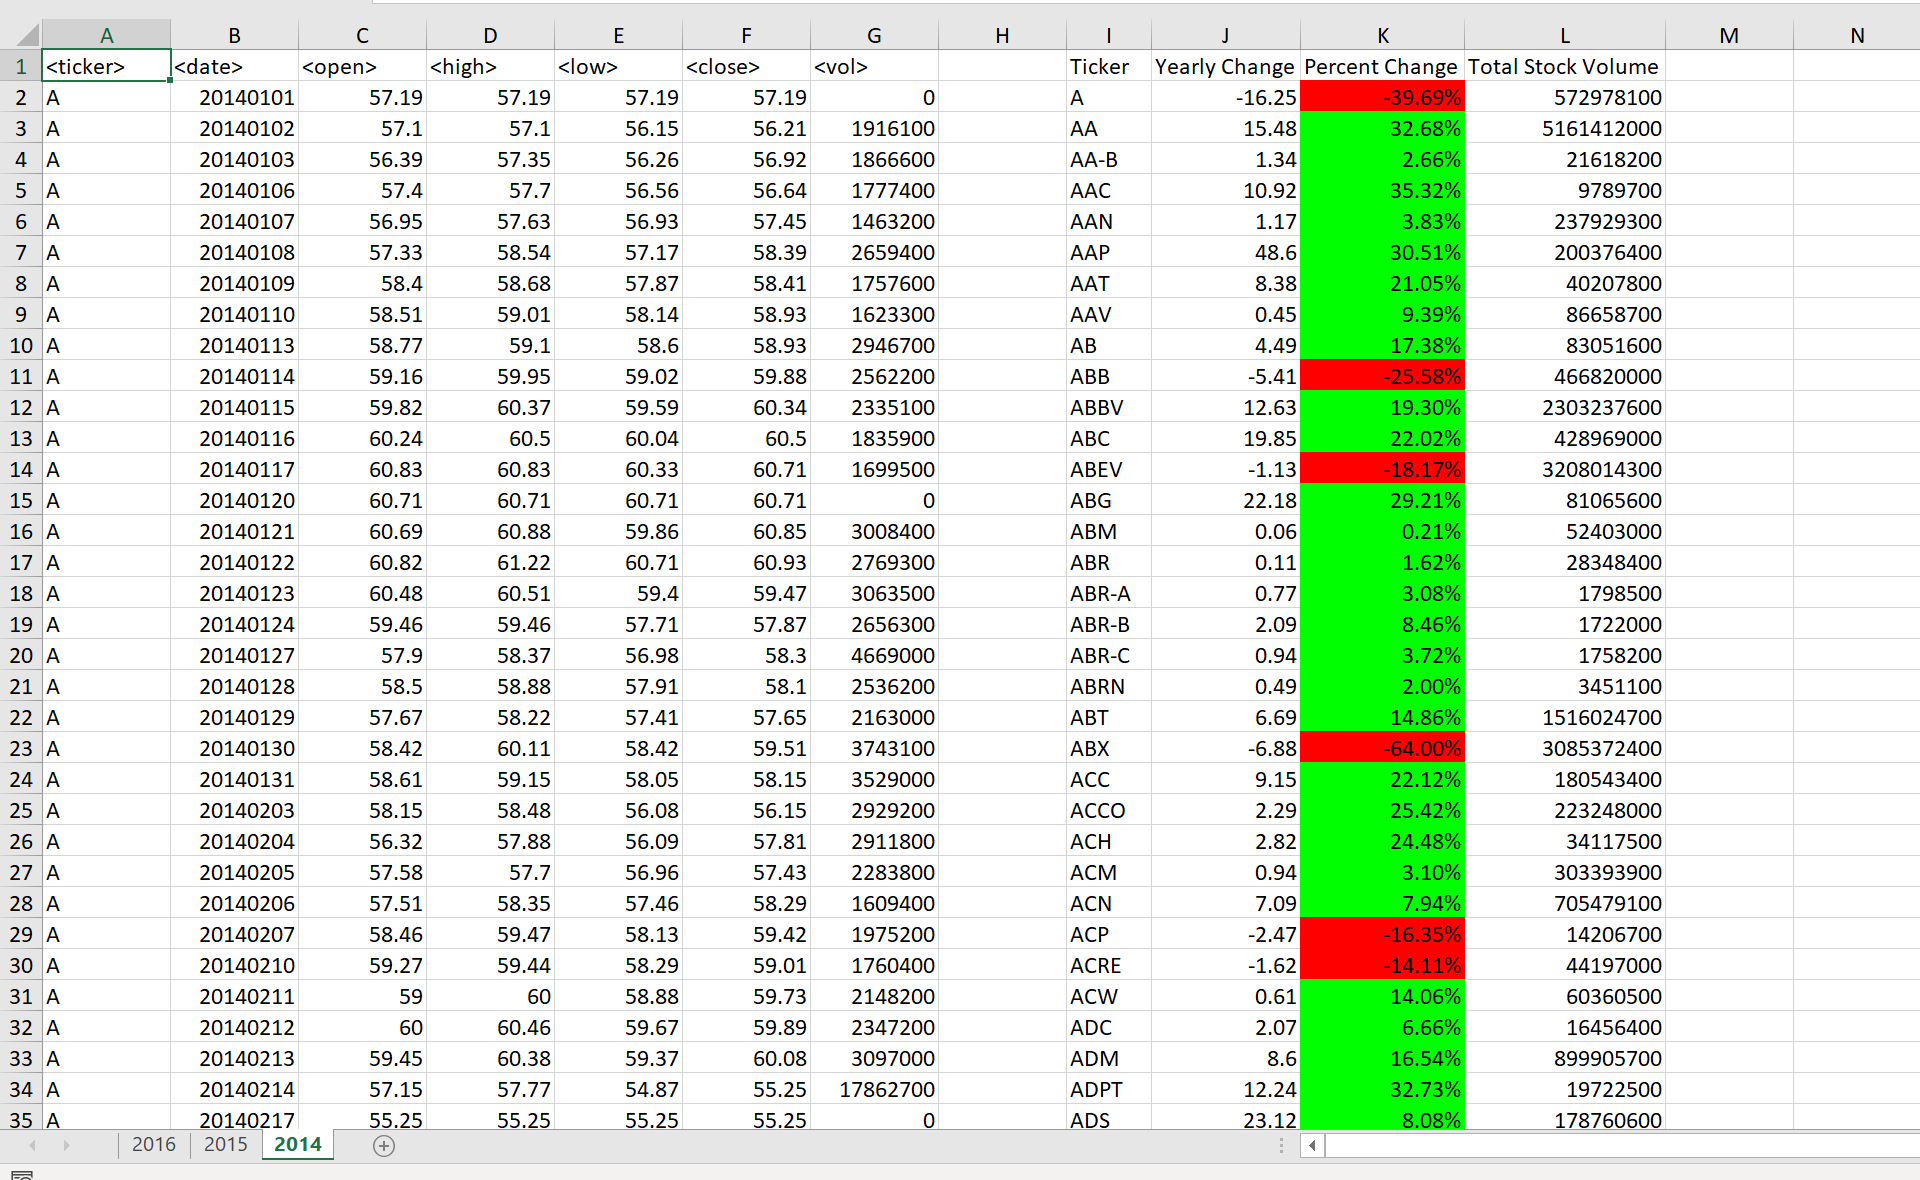
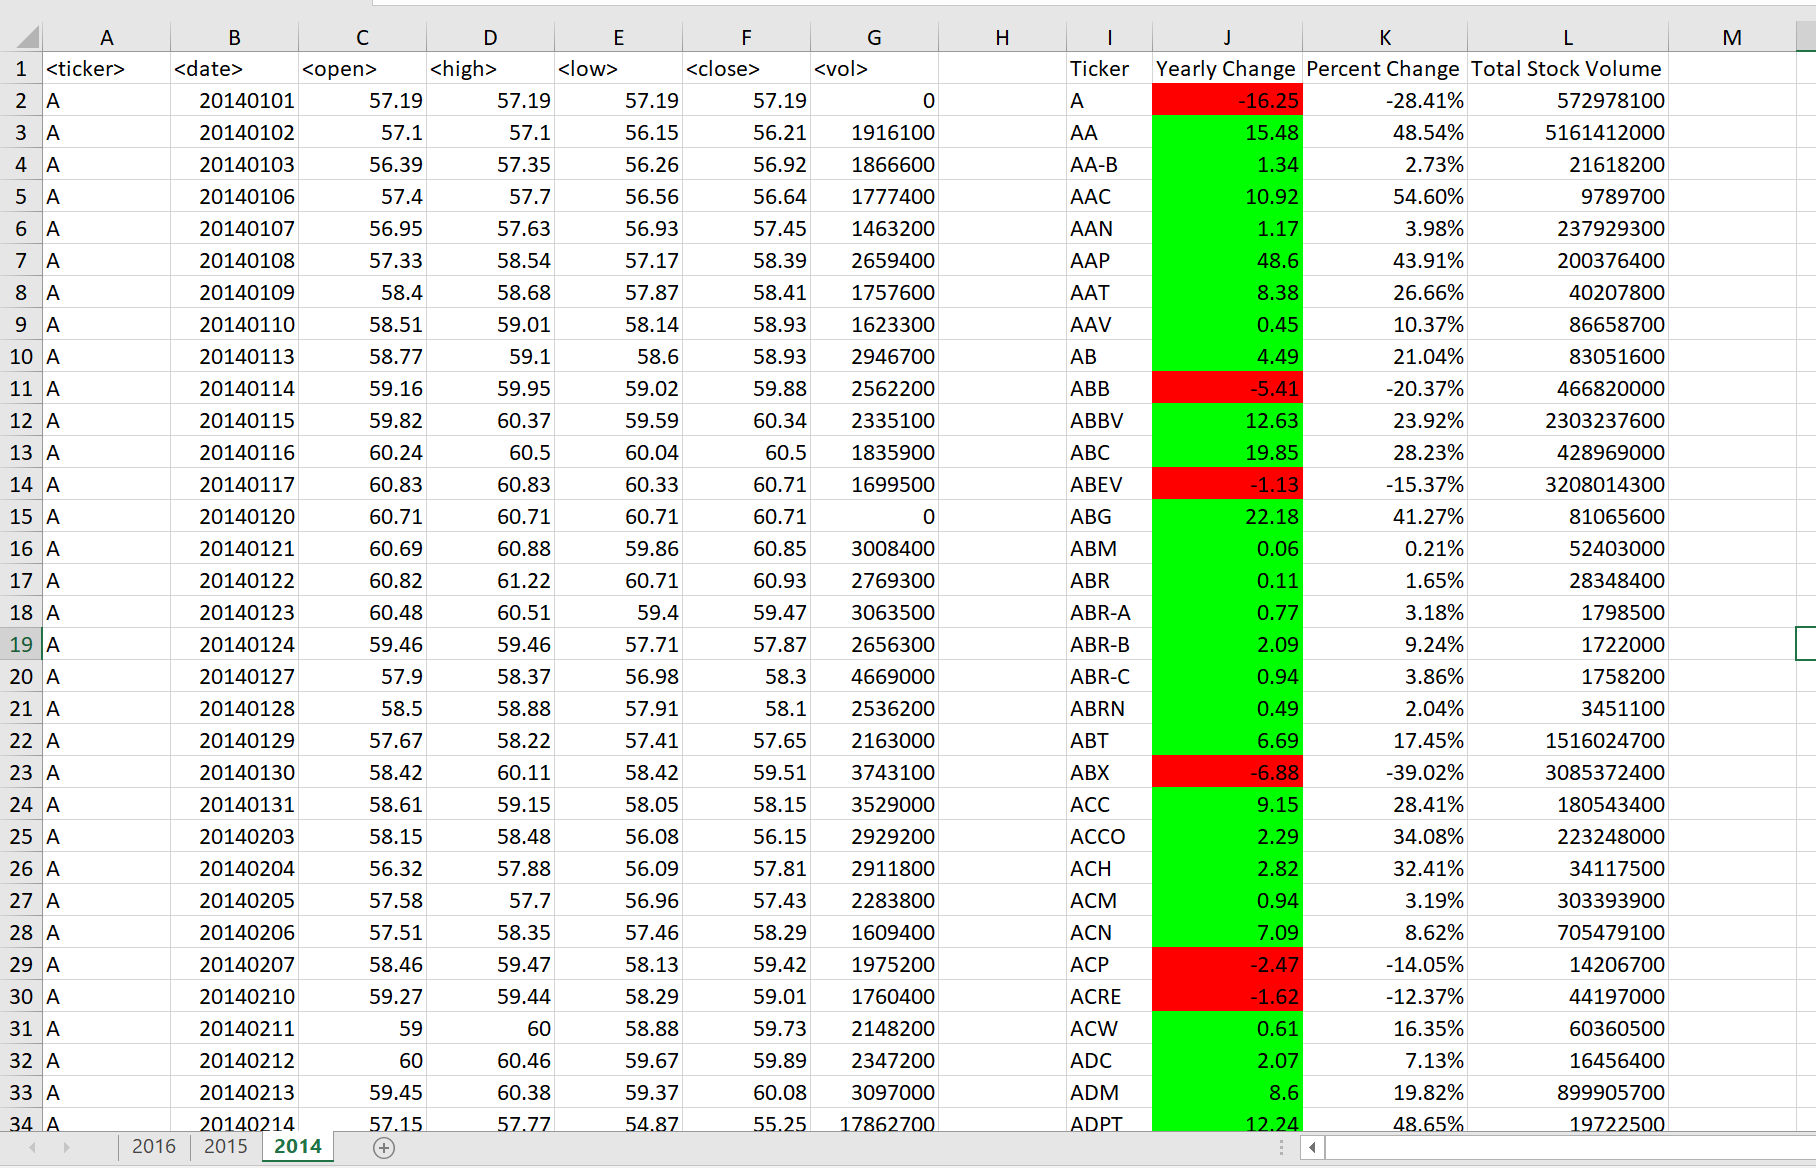
formula correction on percent change

diff --git a/README.md b/README.md
@@ -1,1 +1,69 @@
-# vba-challenge
+# VBA Homework - The VBA of Wall Street
+
+## Background
+
+You are well on your way to becoming a programmer and Excel master! In this homework assignment you will use VBA scripting to analyze real stock market data. Depending on your comfort level with VBA, you may choose to challenge yourself with a few of the challenge tasks.
+
+### Before You Begin
+
+1. Create a new repository for this project called `VBA-challenge`. **Do not add this homework to an existing repository**.
+
+2. Inside the new repository that you just created, add any VBA files you use for this assignment. These will be the main scripts to run for each analysis.
+
+### Files
+
+* [Test Data](Resources/alphabetical_testing.xlsx) - Use this while developing your scripts.
+
+* [Stock Data](Resources/Multiple_year_stock_data.xlsx) - Run your scripts on this data to generate the final homework report.
+
+### Stock market analyst
+
+![stock Market](Images/stockmarket.jpg)
+
+## Instructions
+
+* Create a script that will loop through all the stocks for one year and output the following information.
+
+  * The ticker symbol.
+
+  * Yearly change from opening price at the beginning of a given year to the closing price at the end of that year.
+
+  * The percent change from opening price at the beginning of a given year to the closing price at the end of that year.
+
+  * The total stock volume of the stock.
+
+* You should also have conditional formatting that will highlight positive change in green and negative change in red.
+
+* The result should look as follows.
+
+![moderate_solution](Images/moderate_solution.png)
+
+### CHALLENGES
+
+1. Your solution will also be able to return the stock with the "Greatest % increase", "Greatest % decrease" and "Greatest total volume". The solution will look as follows:
+
+![hard_solution](Images/hard_solution.png)
+
+2. Make the appropriate adjustments to your VBA script that will allow it to run on every worksheet, i.e., every year, just by running the VBA script once.
+
+### Other Considerations
+
+* Use the sheet `alphabetical_testing.xlsx` while developing your code. This data set is smaller and will allow you to test faster. Your code should run on this file in less than 3-5 minutes.
+
+* Make sure that the script acts the same on each sheet. The joy of VBA is to take the tediousness out of repetitive task and run over and over again with a click of the button.
+
+## Submission
+
+* To submit please upload the following to Github:
+
+  * A screen shot for each year of your results on the Multi Year Stock Data.
+
+  * VBA Scripts as separate files.
+
+* After everything has been saved, create a sharable link and submit that to <https://bootcampspot-v2.com/>.
+
+- - -
+
+### Copyright
+
+Trilogy Education Services © 2019. All Rights Reserved.
